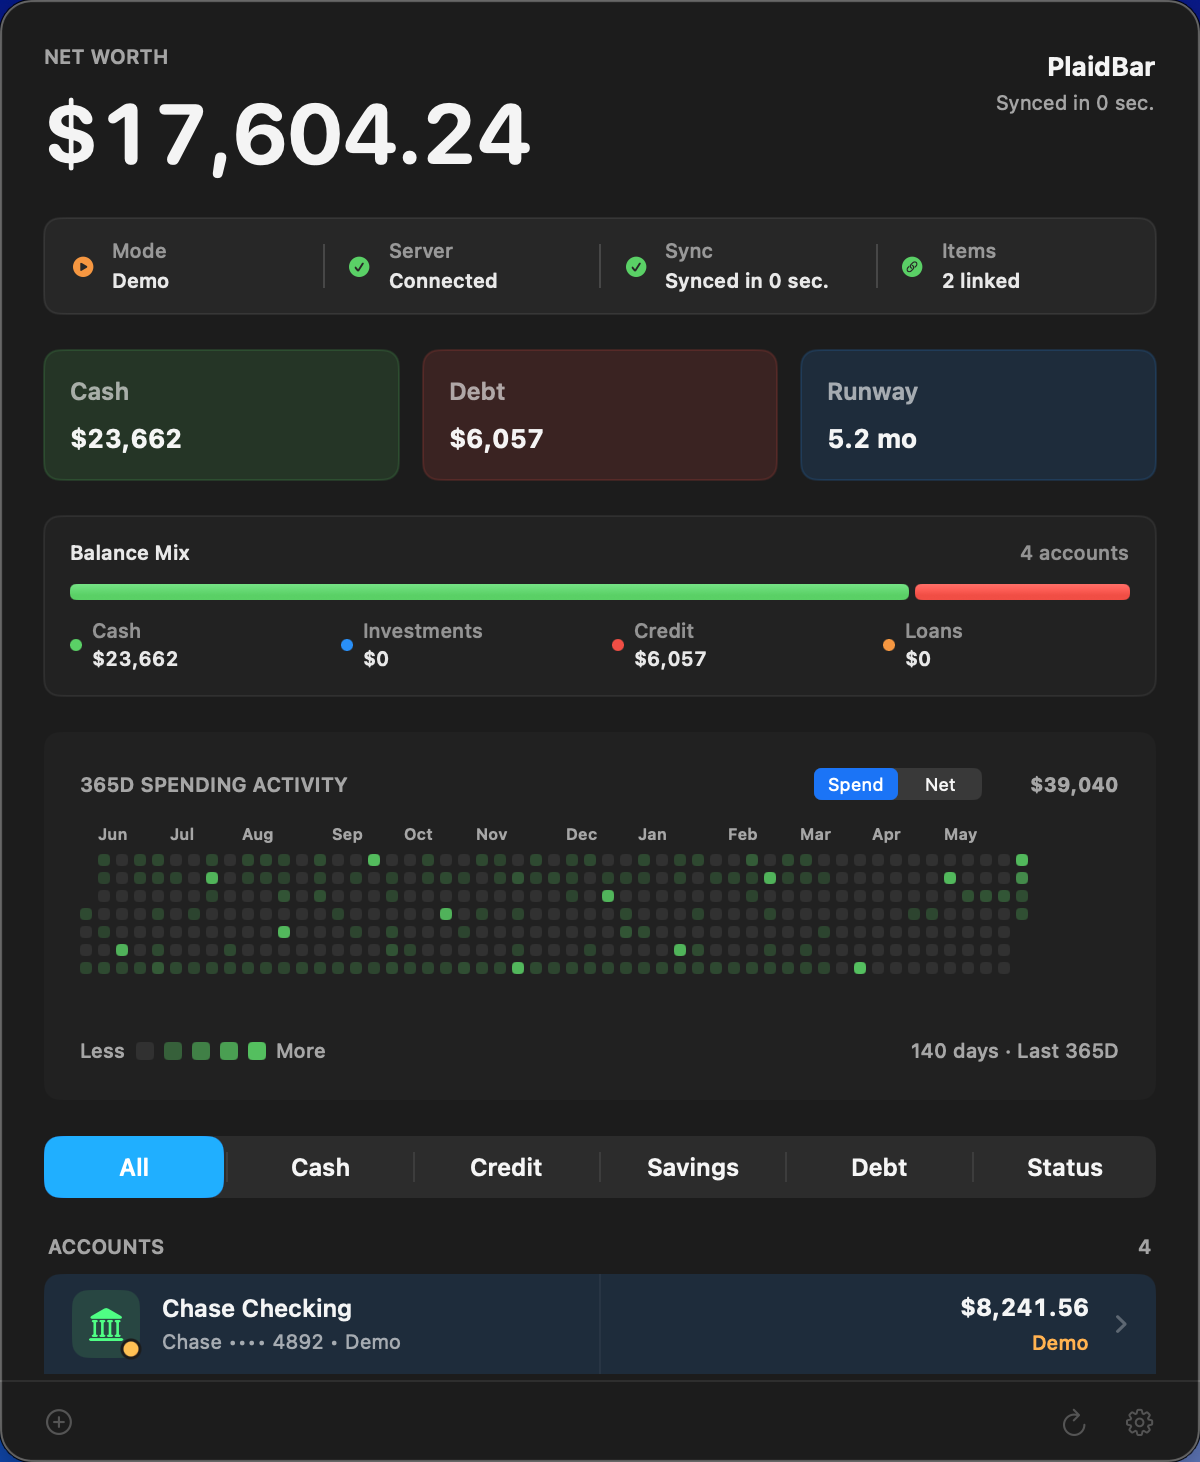
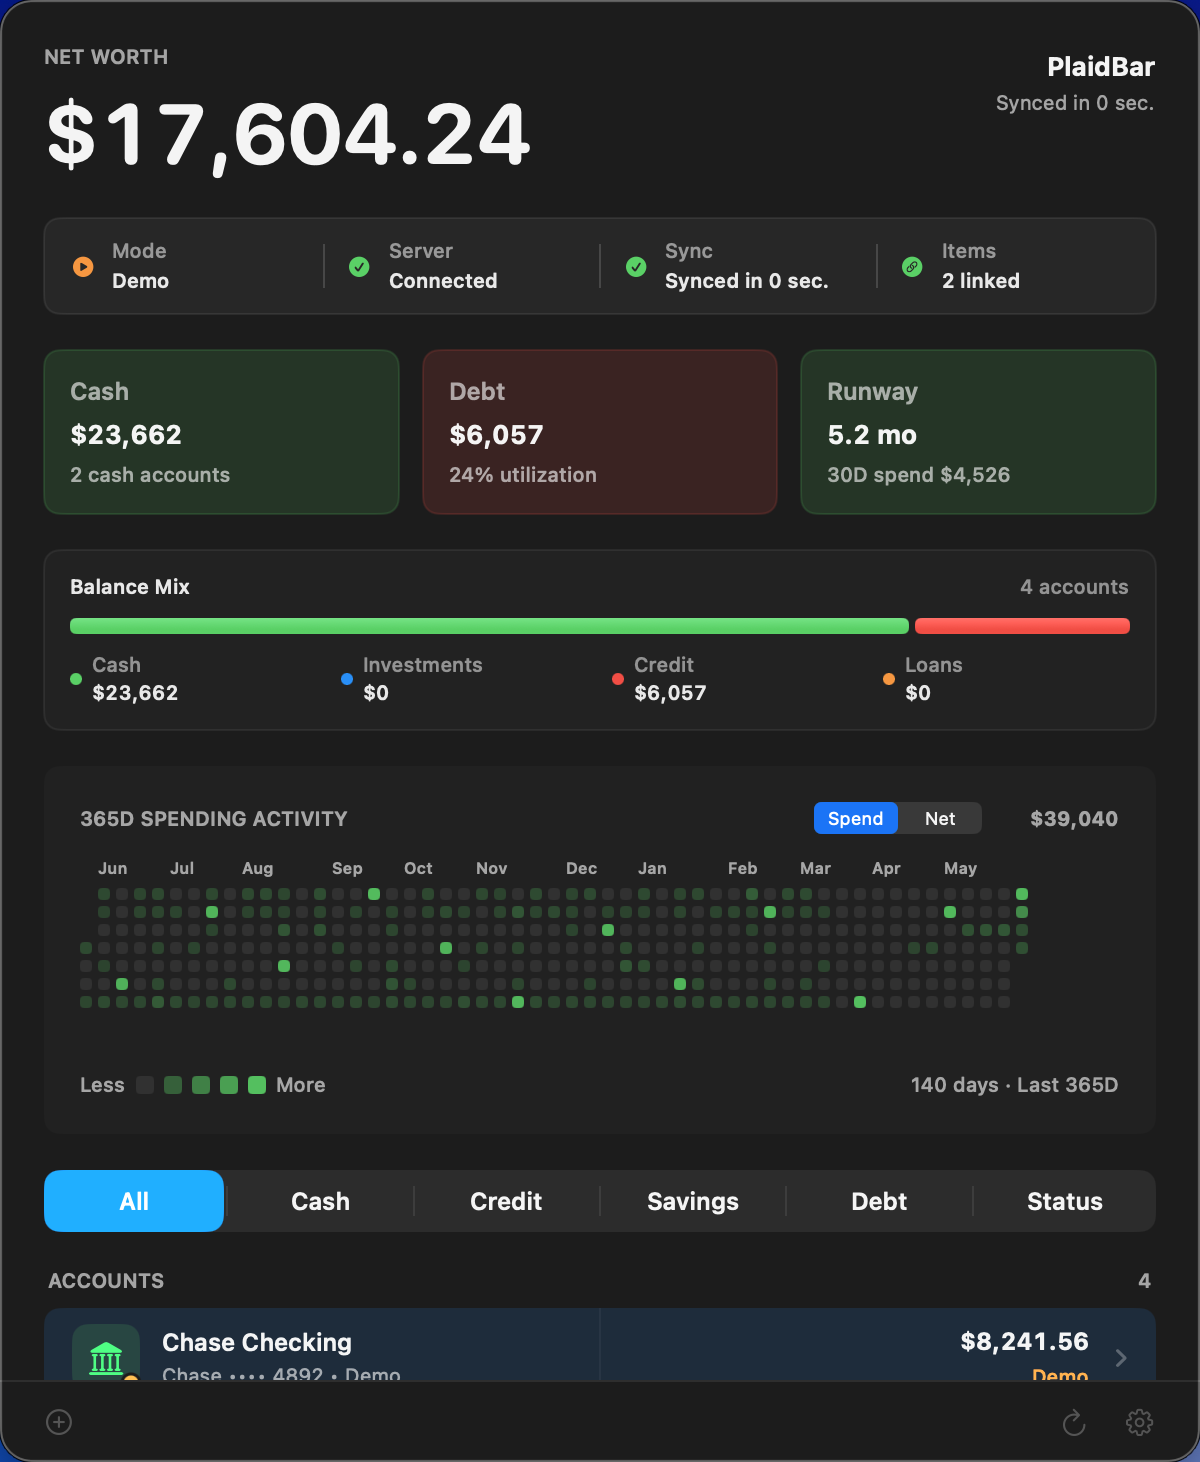
Clarify dashboard runway context (#57)
* feat: clarify dashboard runway context

* test: align runway basis formatting

diff --git a/Sources/PlaidBar/Views/MainPopover.swift b/Sources/PlaidBar/Views/MainPopover.swift
@@ -263,19 +263,22 @@ private struct DashboardSummaryCards: View {
             MetricCard(
                 title: "Cash",
                 value: Formatters.currency(appState.totalCash, format: .compact),
+                detail: "\(appState.depositoryAccounts.count) cash account\(appState.depositoryAccounts.count == 1 ? "" : "s")",
                 tint: SemanticColors.available
             )
 
             MetricCard(
                 title: "Debt",
                 value: Formatters.currency(totalDebt, format: .compact),
+                detail: debtDetail,
                 tint: SemanticColors.creditDebt
             )
 
             MetricCard(
                 title: "Runway",
                 value: appState.runwayText,
-                tint: SemanticColors.brand
+                detail: appState.runwayBasisText,
+                tint: runwayTint
             )
         }
     }
@@ -285,21 +288,41 @@ private struct DashboardSummaryCards: View {
             total + abs(account.balances.current ?? 0)
         }
     }
+
+    private var debtDetail: String {
+        guard let utilization = appState.totalCreditUtilization else {
+            return appState.creditAccounts.isEmpty ? "No credit linked" : "No limit data"
+        }
+        return "\(Formatters.percent(utilization, decimals: 0)) utilization"
+    }
+
+    private var runwayTint: Color {
+        guard let months = appState.runwayMonths else { return .secondary }
+        if months < 1 { return SemanticColors.negative }
+        if months < 3 { return SemanticColors.warning }
+        return SemanticColors.available
+    }
 }
 
 private struct MetricCard: View {
     let title: String
     let value: String
+    let detail: String
     let tint: Color
 
     var body: some View {
-        VStack(alignment: .leading, spacing: 8) {
+        VStack(alignment: .leading, spacing: 6) {
             Text(title)
                 .font(.callout.weight(.semibold))
                 .foregroundStyle(.secondary)
             Text(value)
                 .font(.headline.weight(.bold))
                 .monospacedDigit()
+                .lineLimit(1)
+                .minimumScaleFactor(0.75)
+            Text(detail)
+                .microText()
+                .foregroundStyle(.secondary)
                 .lineLimit(1)
                 .minimumScaleFactor(0.75)
         }

diff --git a/Sources/PlaidBarCore/Utilities/MenuBarSummary.swift b/Sources/PlaidBarCore/Utilities/MenuBarSummary.swift
@@ -80,12 +80,24 @@ public enum MenuBarSummary {
         now: Date = Date(),
         calendar: Calendar = .current
     ) -> Double? {
-        let monthlySpend = recentSpend(
+        let monthlySpend = runwayMonthlySpend(from: transactions, now: now, calendar: calendar)
+        return runwayMonths(cash: cash, monthlySpend: monthlySpend)
+    }
+
+    public static func runwayMonthlySpend(
+        from transactions: [TransactionDTO],
+        now: Date = Date(),
+        calendar: Calendar = .current
+    ) -> Double {
+        recentSpend(
             from: transactions,
             now: now,
             calendar: calendar,
             days: 30
         )
+    }
+
+    public static func runwayMonths(cash: Double, monthlySpend: Double) -> Double? {
         guard cash > 0, monthlySpend > 0 else { return nil }
         return cash / monthlySpend
     }
@@ -100,6 +112,16 @@ public enum MenuBarSummary {
             return String(format: "%.1f mo", months)
         }
         return "\(Int(months.rounded())) mo"
+    }
+
+    public static func runwayBasisText(
+        cash: Double,
+        monthlySpend: Double,
+        currencyFormat: CurrencyFormat = .compact
+    ) -> String {
+        guard cash > 0 else { return "No cash buffer" }
+        guard monthlySpend > 0 else { return "No 30D spend" }
+        return "30D spend \(Formatters.currency(monthlySpend, format: currencyFormat))"
     }
 
     public static func text(

diff --git a/Sources/PlaidBar/App/AppState.swift b/Sources/PlaidBar/App/AppState.swift
@@ -196,12 +196,20 @@ final class AppState {
         MenuBarSummary.recentSpend(from: transactions)
     }
 
+    var runwayMonthlySpend: Double {
+        MenuBarSummary.runwayMonthlySpend(from: transactions)
+    }
+
     var runwayMonths: Double? {
-        MenuBarSummary.runwayMonths(cash: totalCash, transactions: transactions)
+        MenuBarSummary.runwayMonths(cash: totalCash, monthlySpend: runwayMonthlySpend)
     }
 
     var runwayText: String {
         MenuBarSummary.runwayText(months: runwayMonths)
+    }
+
+    var runwayBasisText: String {
+        MenuBarSummary.runwayBasisText(cash: totalCash, monthlySpend: runwayMonthlySpend)
     }
 
     var menuBarText: String {

diff --git a/Tests/PlaidBarCoreTests/PlaidBarCoreTests.swift b/Tests/PlaidBarCoreTests/PlaidBarCoreTests.swift
@@ -183,11 +183,17 @@ struct PlaidBarCoreTests {
         ]
 
         let months = MenuBarSummary.runwayMonths(cash: 6_000, transactions: transactions, now: now)
+        let monthlySpend = MenuBarSummary.runwayMonthlySpend(from: transactions, now: now)
 
         #expect(months == 4)
+        #expect(monthlySpend == 1_500)
+        #expect(MenuBarSummary.runwayMonths(cash: 6_000, monthlySpend: monthlySpend) == 4)
         #expect(MenuBarSummary.runwayText(months: months) == "4.0 mo")
         #expect(MenuBarSummary.runwayText(months: nil) == "No spend")
         #expect(MenuBarSummary.runwayText(months: 0.5) == "15d")
+        #expect(MenuBarSummary.runwayBasisText(cash: 6_000, monthlySpend: monthlySpend) == "30D spend $1,500")
+        #expect(MenuBarSummary.runwayBasisText(cash: 0, monthlySpend: monthlySpend) == "No cash buffer")
+        #expect(MenuBarSummary.runwayBasisText(cash: 6_000, monthlySpend: 0) == "No 30D spend")
     }
 
     @Test("Menu bar summary text supports every mode")